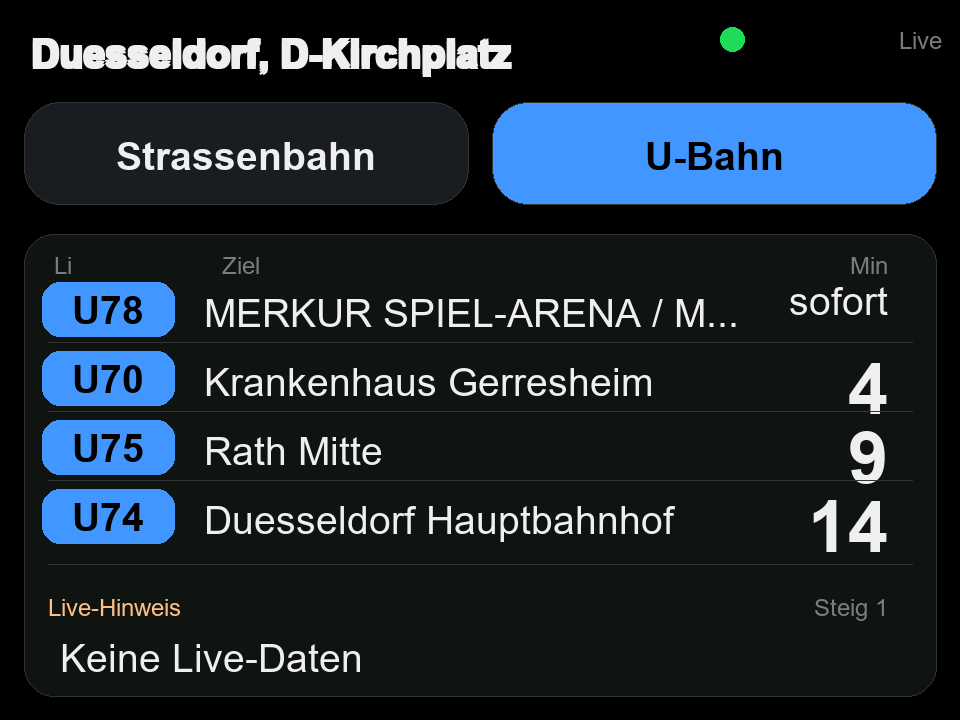
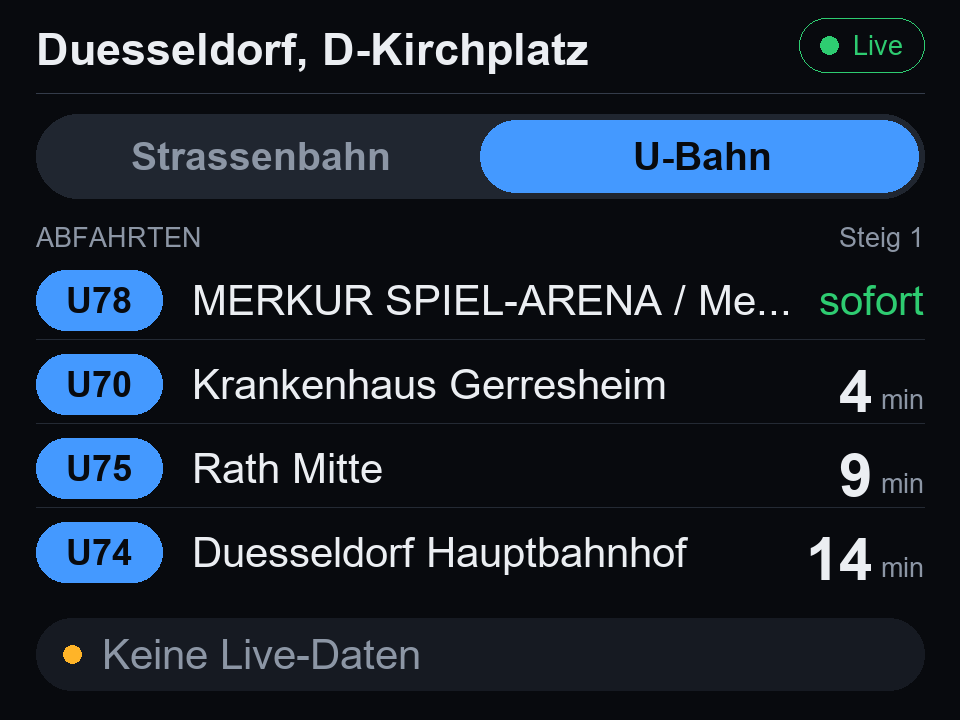
Update mockups and docs for the redesigned UI and reliability changes
Regenerate both screenshot mockups to match the implemented redesign
(status chip, segmented tabs, min suffixes, sofort state, dark palette),
document the status chip states and freshness watchdog, and update the
README's feature list, dependency list, and data-source section (plain
HTTP rationale, filtered parsing, transport-mode filter).

diff --git a/README.md b/README.md
@@ -10,12 +10,13 @@ walkthrough from a fresh board to a working monitor. Something not working? Chec
 
 - Connects an ESP32-based 320x240 touchscreen display to Wi-Fi, configured entirely on-device (no hardcoded credentials)
 - Lets you search VRR's stop database by name and pick your own Straßenbahn and U-Bahn stops from a web page, independently of each other
-- Fetches live departure data from the VRR departure monitor endpoint for each configured stop
-- Shows tram and U-Bahn departures in a simple touch-driven UI
+- Fetches live departure data from the VRR departure monitor endpoint for each configured stop, every 30 seconds
+- Shows tram and U-Bahn departures in a clean dark UI: proportional FreeSans typography, segmented mode tabs, line-number chips, and a status chip that shows `Live` (green) or `vor X Min` (amber) depending on data freshness
 - Displays platform information and a scrolling live hint ticker
 - Lets you switch mode and direction by touching the screen
-- Refreshes departure data in the background, so the UI never freezes while fetching
-- Counts departure times down locally between refreshes, so minutes keep ticking down to `sofort` even if the network is briefly unavailable
+- Refreshes departure data in a background task, so the UI never freezes while fetching
+- Counts departure times down locally between refreshes: minutes tick down to `sofort`, and a departed train drops off the list a minute later with the next one shifting up — so the display keeps predicting sensibly even without fresh data
+- Heals itself: if no update succeeds for 5 minutes it forces a Wi-Fi reconnect, and after 10 minutes it restarts — so it never sits showing hours-old departures
 
 ## Hardware / Target
 
@@ -44,7 +45,7 @@ PlatformIO installs these automatically:
 - `XPT2046_Touchscreen`
 - `ArduinoJson`
 - `WiFiManager`
-- ESP32 Arduino framework libraries such as `WiFi`, `HTTPClient`, and `WiFiClientSecure`
+- ESP32 Arduino framework libraries such as `WiFi`, `HTTPClient`, `WebServer`, and `ESPmDNS`
 
 ## Build, Flash, And Setup
 
@@ -78,8 +79,10 @@ device photos.
 
 The firmware talks to two VRR open-data endpoints:
 
-- `https://openservice-test.vrr.de/static03/XML_DM_REQUEST` — live departures for a configured stop ID, with `useRealtime=1` and JSON output.
-- `https://openservice-test.vrr.de/static03/XML_STOPFINDER_REQUEST` — stop name search (used by the Haltestelle web page), returning candidate stop IDs and names for a typed query.
+- `http://openservice-test.vrr.de/static03/XML_DM_REQUEST` — live departures for a configured stop ID, with `useRealtime=1`, JSON output, `limit=20`, and a transport-mode filter (`includedMeans` restricted to U-Bahn and tram) so the result slots aren't wasted on buses and trains.
+- `http://openservice-test.vrr.de/static03/XML_STOPFINDER_REQUEST` — stop name search (used by the Haltestelle web page), returning candidate stop IDs and names for a typed query.
+
+Requests are made over plain HTTP deliberately: the data is public with no credentials involved, and TLS on the ESP32 proved both fragile for these response sizes and expensive (~45KB of heap per connection). Responses are parsed with an [ArduinoJson filter](https://arduinojson.org/v7/api/json/deserializejson/) so only the handful of fields the display uses are ever kept in memory.
 
 ## Known Limitations
 

diff --git a/docs/TROUBLESHOOTING.md b/docs/TROUBLESHOOTING.md
@@ -85,3 +85,20 @@ retrying on its own, or you can just try selecting the stop again.
 Departure data refreshes happen in the background and shouldn't block the UI. If you
 see a freeze during normal operation (not during setup), that's a regression — please
 report it with what you were doing right before it happened.
+
+### The status chip says "vor X Min" instead of "Live"
+
+The last successful data fetch is X minutes old. The device keeps counting departures
+down locally in the meantime (and drops trains off the list once they've departed), so
+the display stays useful. It also heals itself: after 5 minutes without a successful
+update it forces a Wi-Fi reconnect, and after 10 minutes it restarts entirely — the
+same thing a manual power cycle would do. If you see it restart on its own now and
+then, that's this watchdog doing its job; if it happens constantly, check whether the
+VRR endpoint is reachable from your network at all.
+
+### The device restarts by itself every 10 minutes
+
+That's the freshness watchdog (see above) firing repeatedly, which means no fetch ever
+succeeds. Likely causes: the network blocks plain-HTTP traffic (some guest/corporate
+networks do), or the VRR open-data endpoint is down. Check the serial monitor output
+for the exact fetch errors.

diff --git a/docs/SCREENSHOTS.md b/docs/SCREENSHOTS.md
@@ -20,6 +20,19 @@ Note how the header shows a different stop name in each tab — Straßenbahn and
 U-Bahn each have their own independently configured Haltestelle (see
 [GETTING_STARTED.md](./GETTING_STARTED.md)).
 
+## Status Chip States
+
+The chip in the top-right corner sizes itself to its content and reflects data
+freshness:
+
+- **Green `Live`** — data was fetched within the last minute; the dot pulses.
+- **Amber `vor X Min`** — the last successful update is X minutes old. The
+  countdowns keep ticking down locally in the meantime, and departed trains
+  drop off the list on their own.
+
+An imminent departure shows a green `sofort` instead of a minute count (visible
+in the U-Bahn screenshot above).
+
 ## Interaction
 
 - Touch the top tab area to switch between tram and U-Bahn